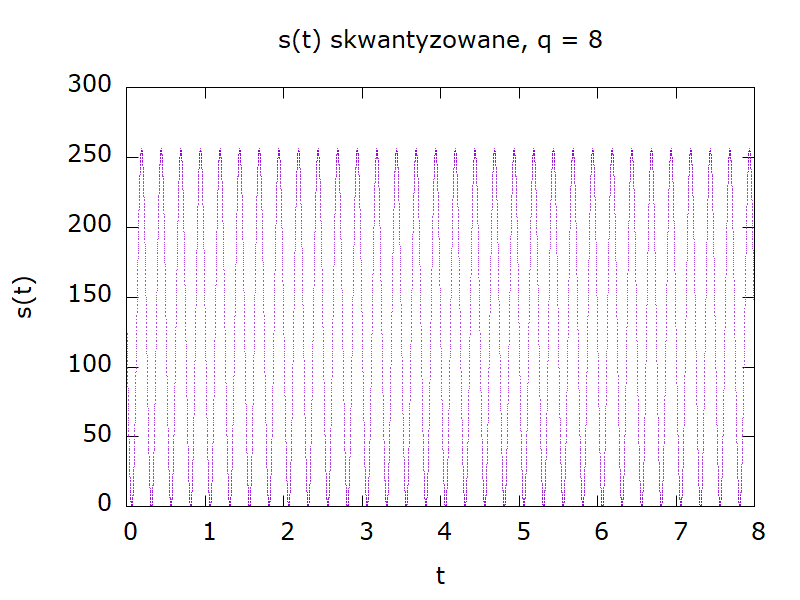
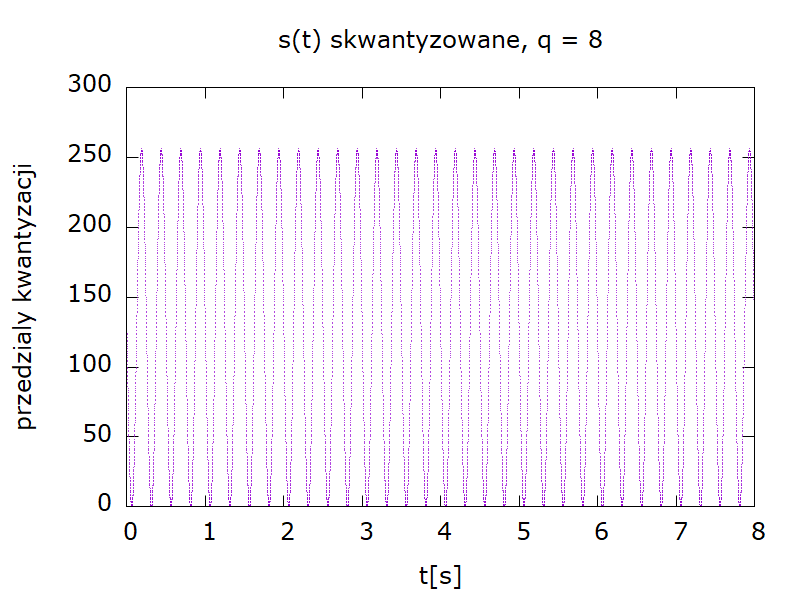
Poprawki do podpisow osi wykresow

Changed region(s): [[0.0, 0.27, 0.0625, 0.72], [0.5312, 0.93, 0.5938, 0.99]]

diff --git a/LAB_02/LAB_02/main.cpp b/LAB_02/LAB_02/main.cpp
@@ -47,7 +47,7 @@ void zad1() {
 	filename = "LAB_02_ZAD1_s";
 
 	dataToCsv("csv/" + filename + ".csv", outS);
-	drawChart(title, "t", "s(t)", "csv/" + filename +".csv", "charts/" + filename + ".png");
+	drawChart(title, "t[s]", "A[v]", "csv/" + filename +".csv", "charts/" + filename + ".png");
 }
 
 void zad2() {
@@ -72,7 +72,7 @@ void zad2() {
 	filename = "LAB_02_ZAD2_s_q_16";
 
 	dataToCsv("csv/" + filename + ".csv", outS);
-	drawChartWithDots(title, "t", "s(t)", "csv/" + filename + ".csv", "charts/" + filename + ".png");
+	drawChartWithDots(title, "t[s]", "przedzialy kwantyzacji", "csv/" + filename + ".csv", "charts/" + filename + ".png");
 }
 
 void test() {
@@ -134,7 +134,7 @@ void zad3() {
 	filename = "LAB_02_ZAD3_s_q_8";
 
 	dataToCsv("csv/" + filename + ".csv", outS);
-	drawChartWithDots(title, "t", "s(t)", "csv/" + filename + ".csv", "charts/" + filename + ".png");
+	drawChartWithDots(title, "t[s]", "przedzialy kwantyzacji", "csv/" + filename + ".csv", "charts/" + filename + ".png");
 }
 
 int main() {
